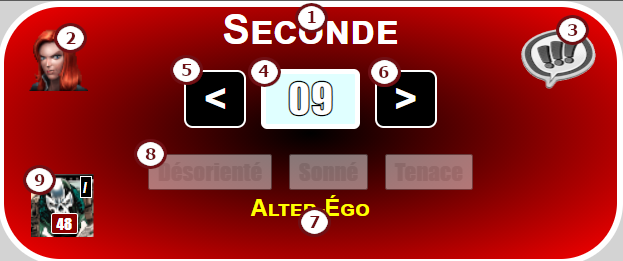
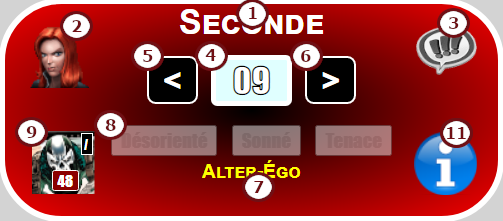
3.7
Conteneur Docker installé sans appel réseau.
Aide de jeu (documentation d'utilisation à suivre)

diff --git a/doc/readme.md b/doc/readme.md
@@ -12,6 +12,7 @@
 2e. [Gestion du méchant](https:#gestion-du-méchant)  
 2f. [Gestion du joueur](https:#gestion-du-joueur)  
 2g. [Gestion des Manigances](https:#gestion-des-manigances)  
+2h. [Aides de jeu](https:#aides-de-jeu)
 ### 3. [Administration du site](https:#administration-du-site)
 3a. [Activation des boites de jeu](https:#activation-des-boites-de-jeu)  
 3b. [Liste des parties sur le serveur](https:#liste-des-parties-sur-le-serveur)  
@@ -140,7 +141,7 @@ Le mini-écran de méchant se présentera, quant à lui, comme l'illustration su
 - **Etat sonné du méchant![7](tag7.png) :** Ce bouton permet de suivre l'état "*sonné*" du méchant. Si le bouton est grisé (comme sur la présente illustration), cliquez dessus pour le faire passer en vert et permettre à chacun de savoir que le méchant est sonné.
 - **Etat tenace du méchant![8](tag8.png) :** Ce bouton permet de suivre l'état "*tenace*" du méchant. Si le bouton est grisé (comme sur la présente illustration), cliquez dessus pour le faire passer en orange et permettre à chacun de savoir que le méchant est tenace (Notez que lorsque le méchant est tenace, le bouton de diminution de vie![4](tag4.png) passera en rouge pour vous rappeler que, lors d'une attaque, le méchant ne doit perdre de points de vie mais perdre son état tenace).
 - **Autres états du méchant![9](tag9.png) :** Ces bouton permettent de suivre divers traits annexes du méchant. Si un bouton est grisé (comme sur la présente illustration), cliquez dessus pour le faire passer en noir et permettre à chacun de se rappeler un trait du méchant.
-- **Affichage smatphone![10](tag10.png) :** Ce pictogramme n'est disponible que dans la section méchant de la page de partie (pas sur smartphone). En cliquant dessus, vous ouvrez une fenêtre annexe contenant les informations du méchant, telles qu'elles seraient affichées sur l'écran d'un smartphone.
+- **Affichage smartphone![10](tag10.png) :** Ce pictogramme n'est disponible que dans la section méchant de la page de partie (pas sur smartphone). En cliquant dessus, vous ouvrez une fenêtre annexe contenant les informations du méchant, telles qu'elles seraient  affichées sur l'écran d'un smartphone.
 ## Gestion du joueur
 Cette section a pour but de décrire les informations et intéractions concernant chaque joueur  disponibles en cours de partie. La plupart de ces informations peuvent, selon le cas être trouvées à deux endroits différents.  
 Chaque section joueur de la page de partie se présentera comme l'illustration suivante:  
@@ -159,7 +160,8 @@ Le mini-écran de joueur se présentera, quant à lui, comme l'illustration suiv
    - La vie du méchant , présente en bas de l'image, vous rappelle le niveau de vie actuel du méchant.
    - L'image du méchant pourra également être encadrée d'une bordure mauve, verte et/ou orange pour vous rappeler un état correspodan (respectivement *désorienté*, *sonné* et *tenace*) du méchant.
    - **Nota :** En cliquant sur cette image de méchant sur votre smartphone, celui-ci basculera pour vous afficher la globalité de la page de partie.
-- **Affichage smatphone![10](tag10.png) :** Ce pictogramme n'est disponible que dans les sections joueur de la page de partie (pas sur smartphone). En cliquant dessus, vous ouvrez une fenêtre annexe contenant les informations du joueur correspondant, telles qu'elles seraient affichées sur l'écran d'un smartphone.
+- **Affichage smartphone![10](tag10.png) :** Ce pictogramme n'est disponible que dans les sections joueur de la page de partie (pas sur smartphone). En cliquant dessus, vous ouvrez une fenêtre annexe contenant les informations du joueur correspondant, telles qu'elles seraient affichées sur l'écran d'un smartphone.
+- **Aide![11](tag11.png) :** Ce bouton n'est disponible que sur l'affichage smartphone (pas dans la page de partie) du joueur et permet d'ouvrir la fenêtre d'aide de jeu qui contient un rappel des mots-clef pour vous aider à vous rappeler des élements principaux et des termes pièges...  
 **Nota :** tant qu'un joueur choisit d'afficher ses informations de personnage sur son smartphone, sa section joueur sur la page de partie continuera à être mise à jour, mais ne pourra plus y être directement modifiée. L'affichage d'un tel joueur sur la page de partie ressemblera à l'illustrtation suivante :  
 ![Section joueur, affichage seul](illus18.png "Section joueur, affichage seul")
 ## Gestion des Manigances
@@ -175,7 +177,8 @@ Cette section a pour but de décrire les informations et intéractions concernan
 - **Icônes de la manigance![11](tag11.png) :** Si une manigance annexe contient une ou plusieurs icônes, celles si seront affichées ici. Notez également les comportements particuliers suivant:
    - **Icône crise :** Le bouton de diminution de la menace sur la manigance principale![5](tag5.png) sera affiché en rouge pour rappeler à tous les joueurs qu'ils ne sont pas sensé faire de contre sur la manigance principale tant qu'une crise est présente.
    - **Icône accélération :** La valeur d'accélération de la menace sur la manigance principal![6](tag6.png) est calculée en tenant compte des l'ensemble de ces icônes.
-
+## Aides de jeu
+![En construction](wip.png) En travaux ![En construction](wip.png)
 ---
 # Administration du site
 Dans la plupart des écrans de *Remote Champions*, vous trouverez la barre d'administration (non disponible sur smartphone) illustrée ci-dessous.  

diff --git a/README.md b/README.md
@@ -6,6 +6,9 @@ Copiez simplement l'intégralité du contenu du dossier "*setup*" à la racine d
 [Voir la documentation du projet](https://github.com/Fouyoufr/remoteChampions/blob/main/doc/readme.md)
 
 # Historique des changements
+## Version 3.7
+Aide de jeu
+Gestion du conteneur en mode local
 ## Version 3.6
 Gestion de la mise à jour indépendante (locale)  
 Aide de jeu  
